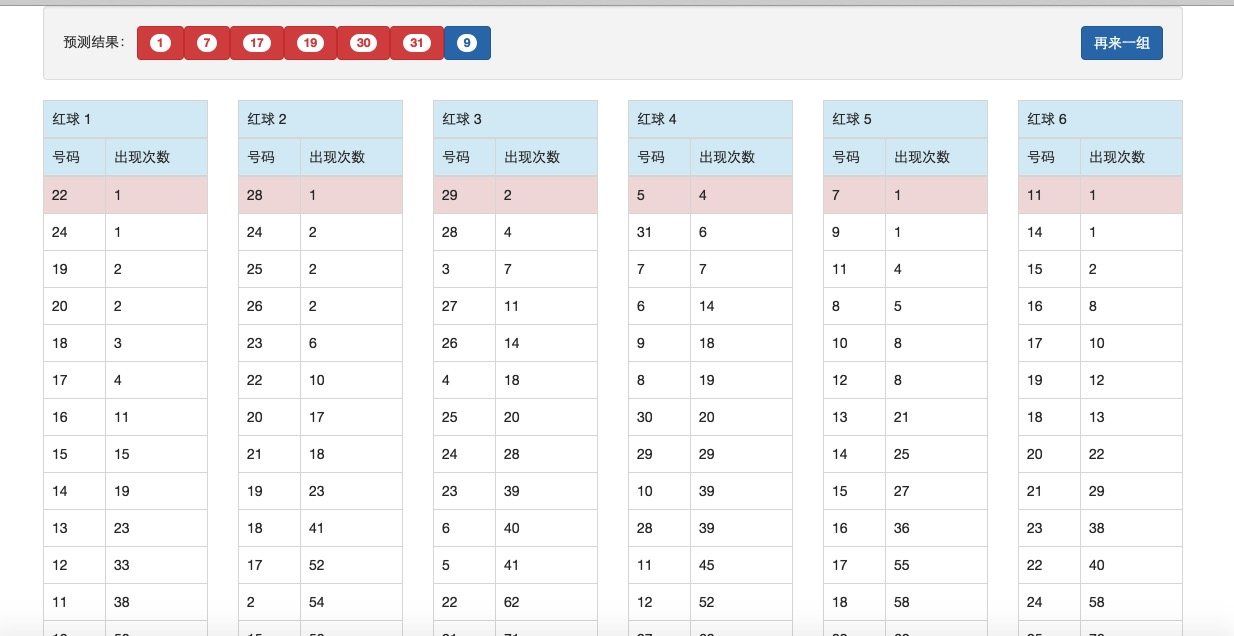
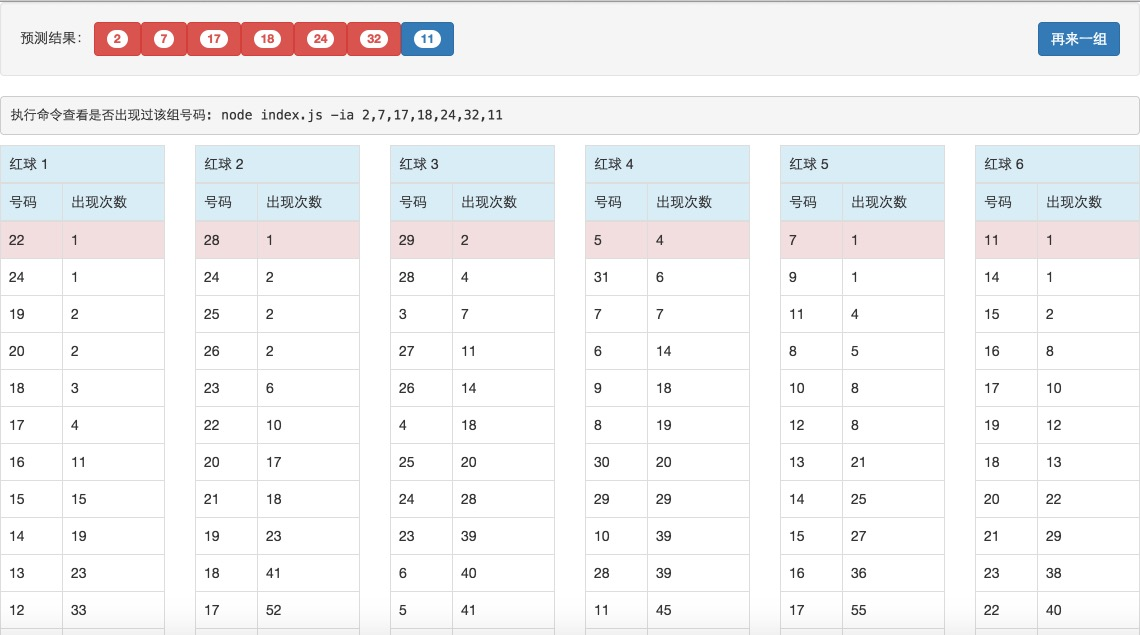
update screenshot

diff --git a/index.html b/index.html
@@ -23,6 +23,8 @@
             <button class="btn btn-primary pull-right" ng-click="predictLotteryNumbers()">再来一组</button>
         </div>
 
+        <pre>执行命令查看是否出现过该组号码: node index.js -ia {{predictNums.join(',')}}</pre>
+
         <div class="row">
             <div ng-repeat="item in data" class="col-lg-2">
                 <table class="table table-bordered">
